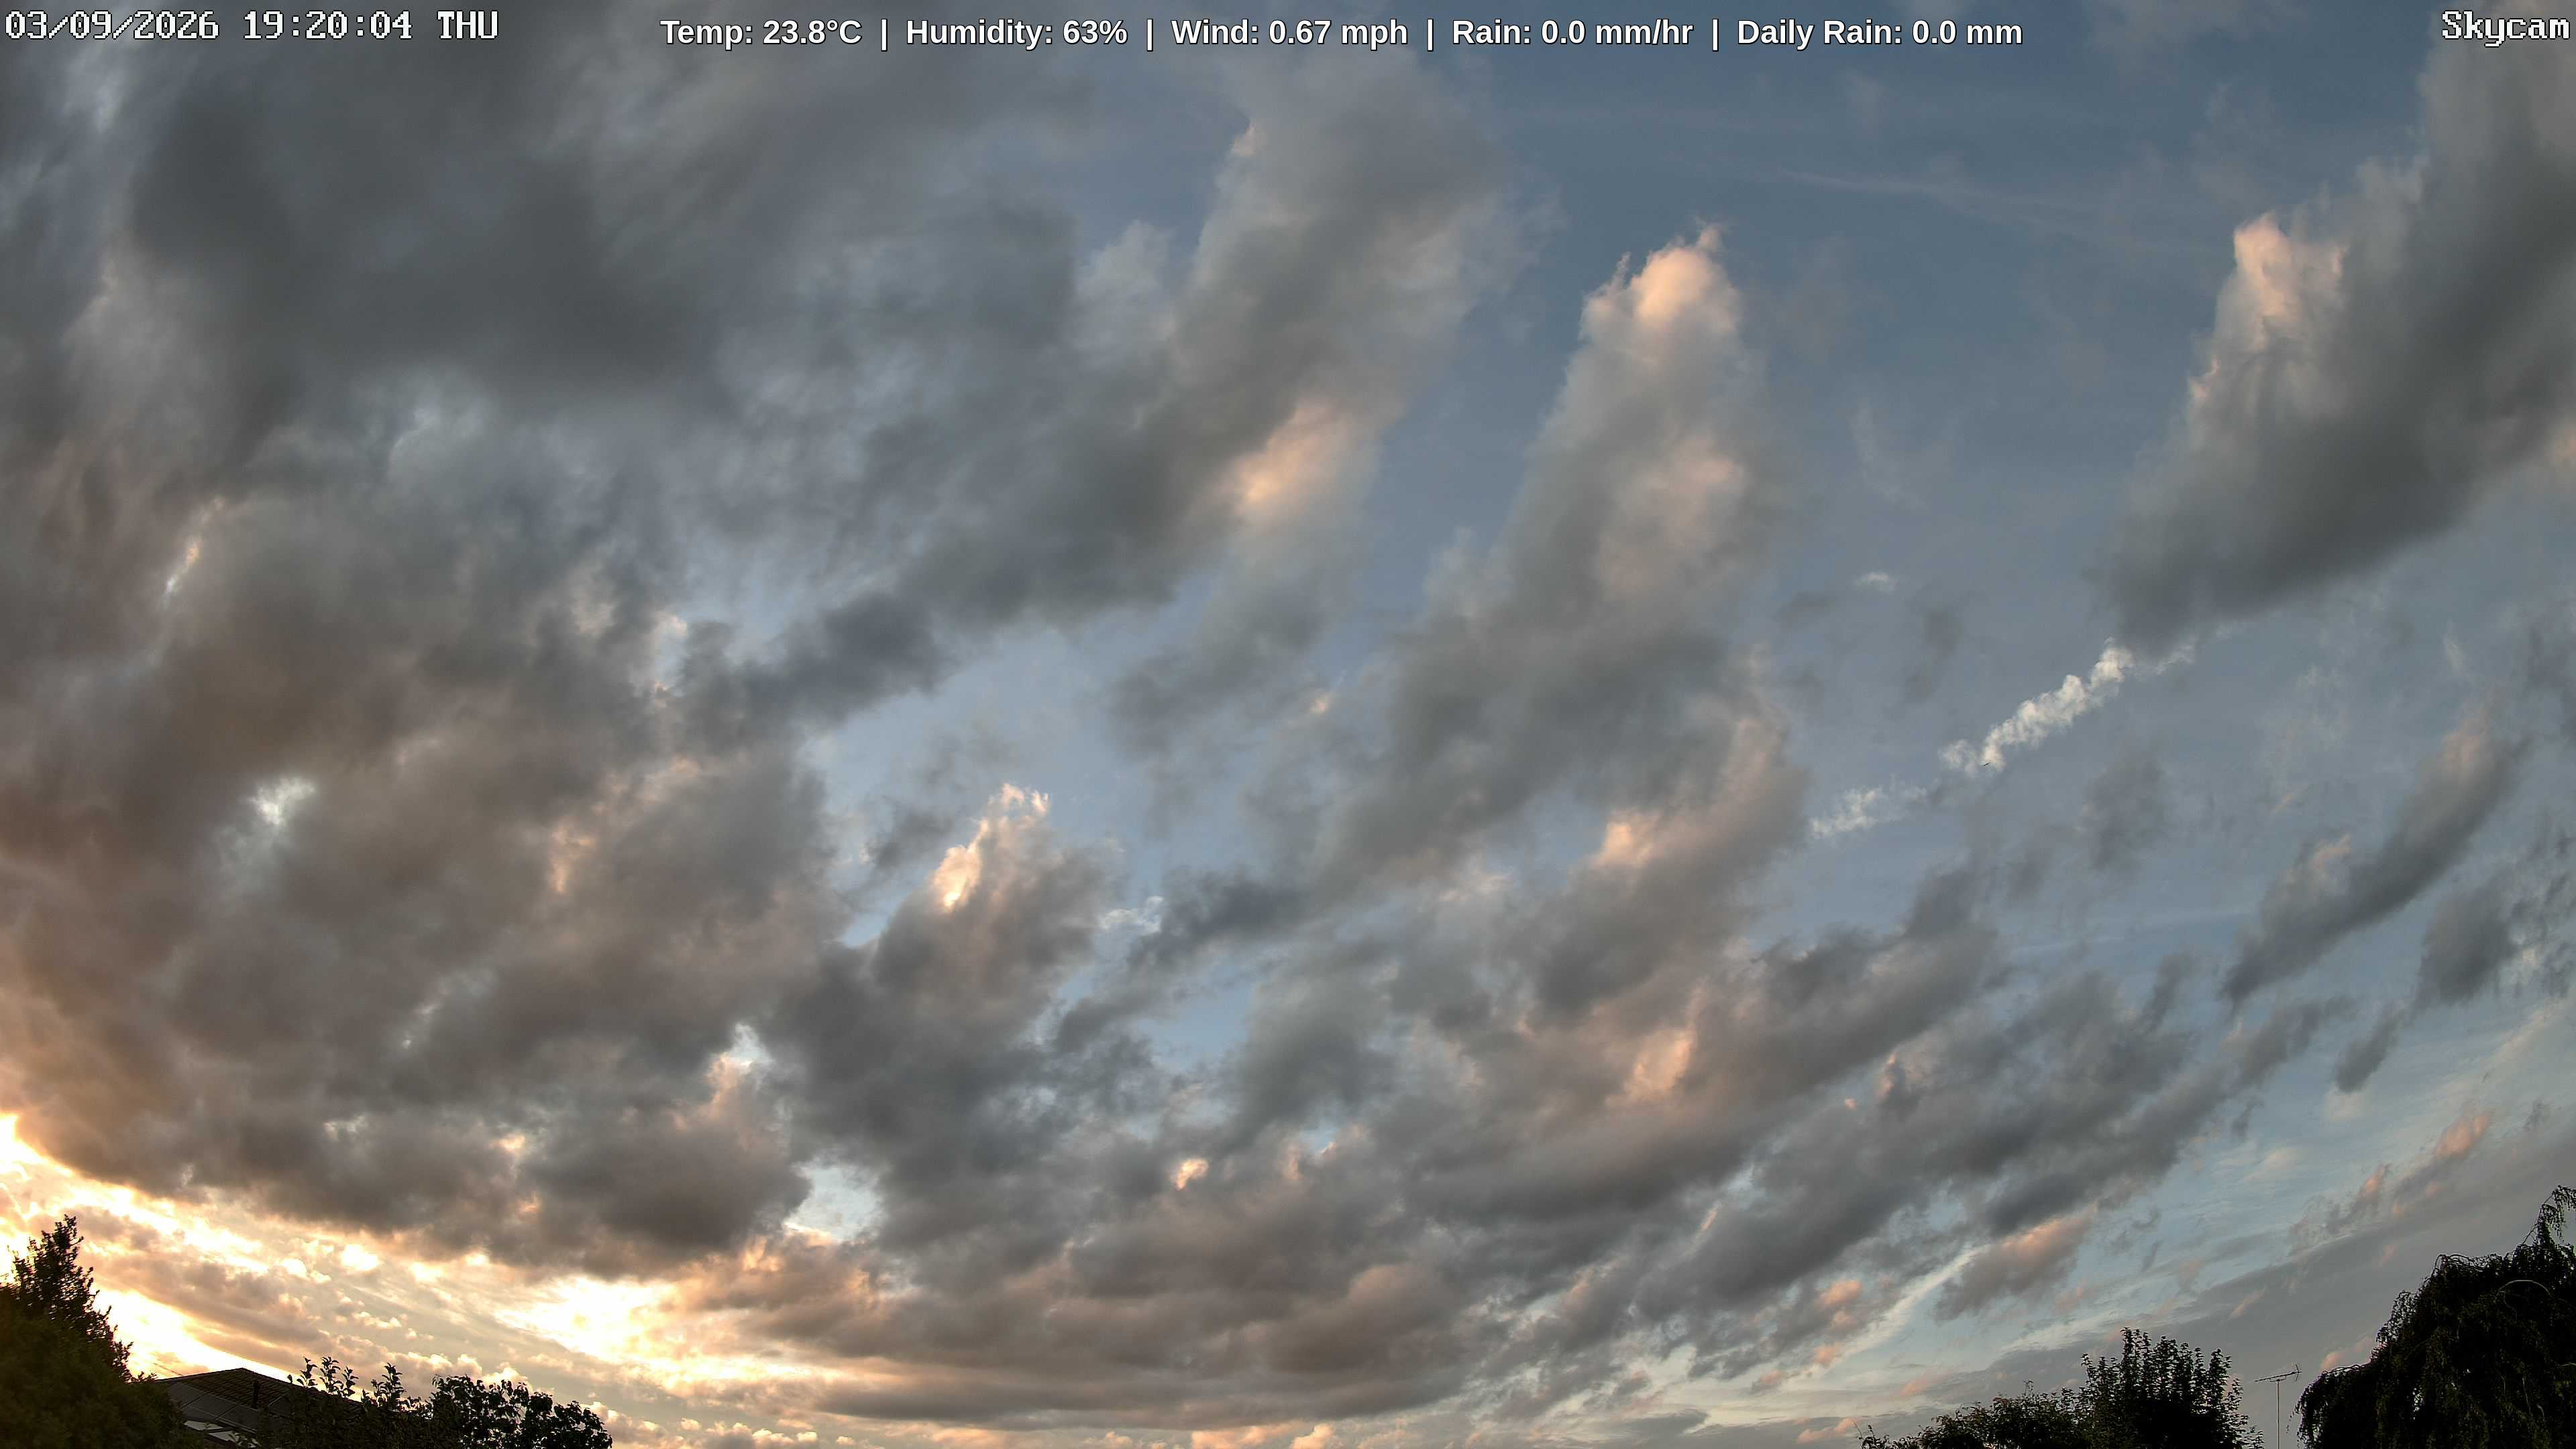
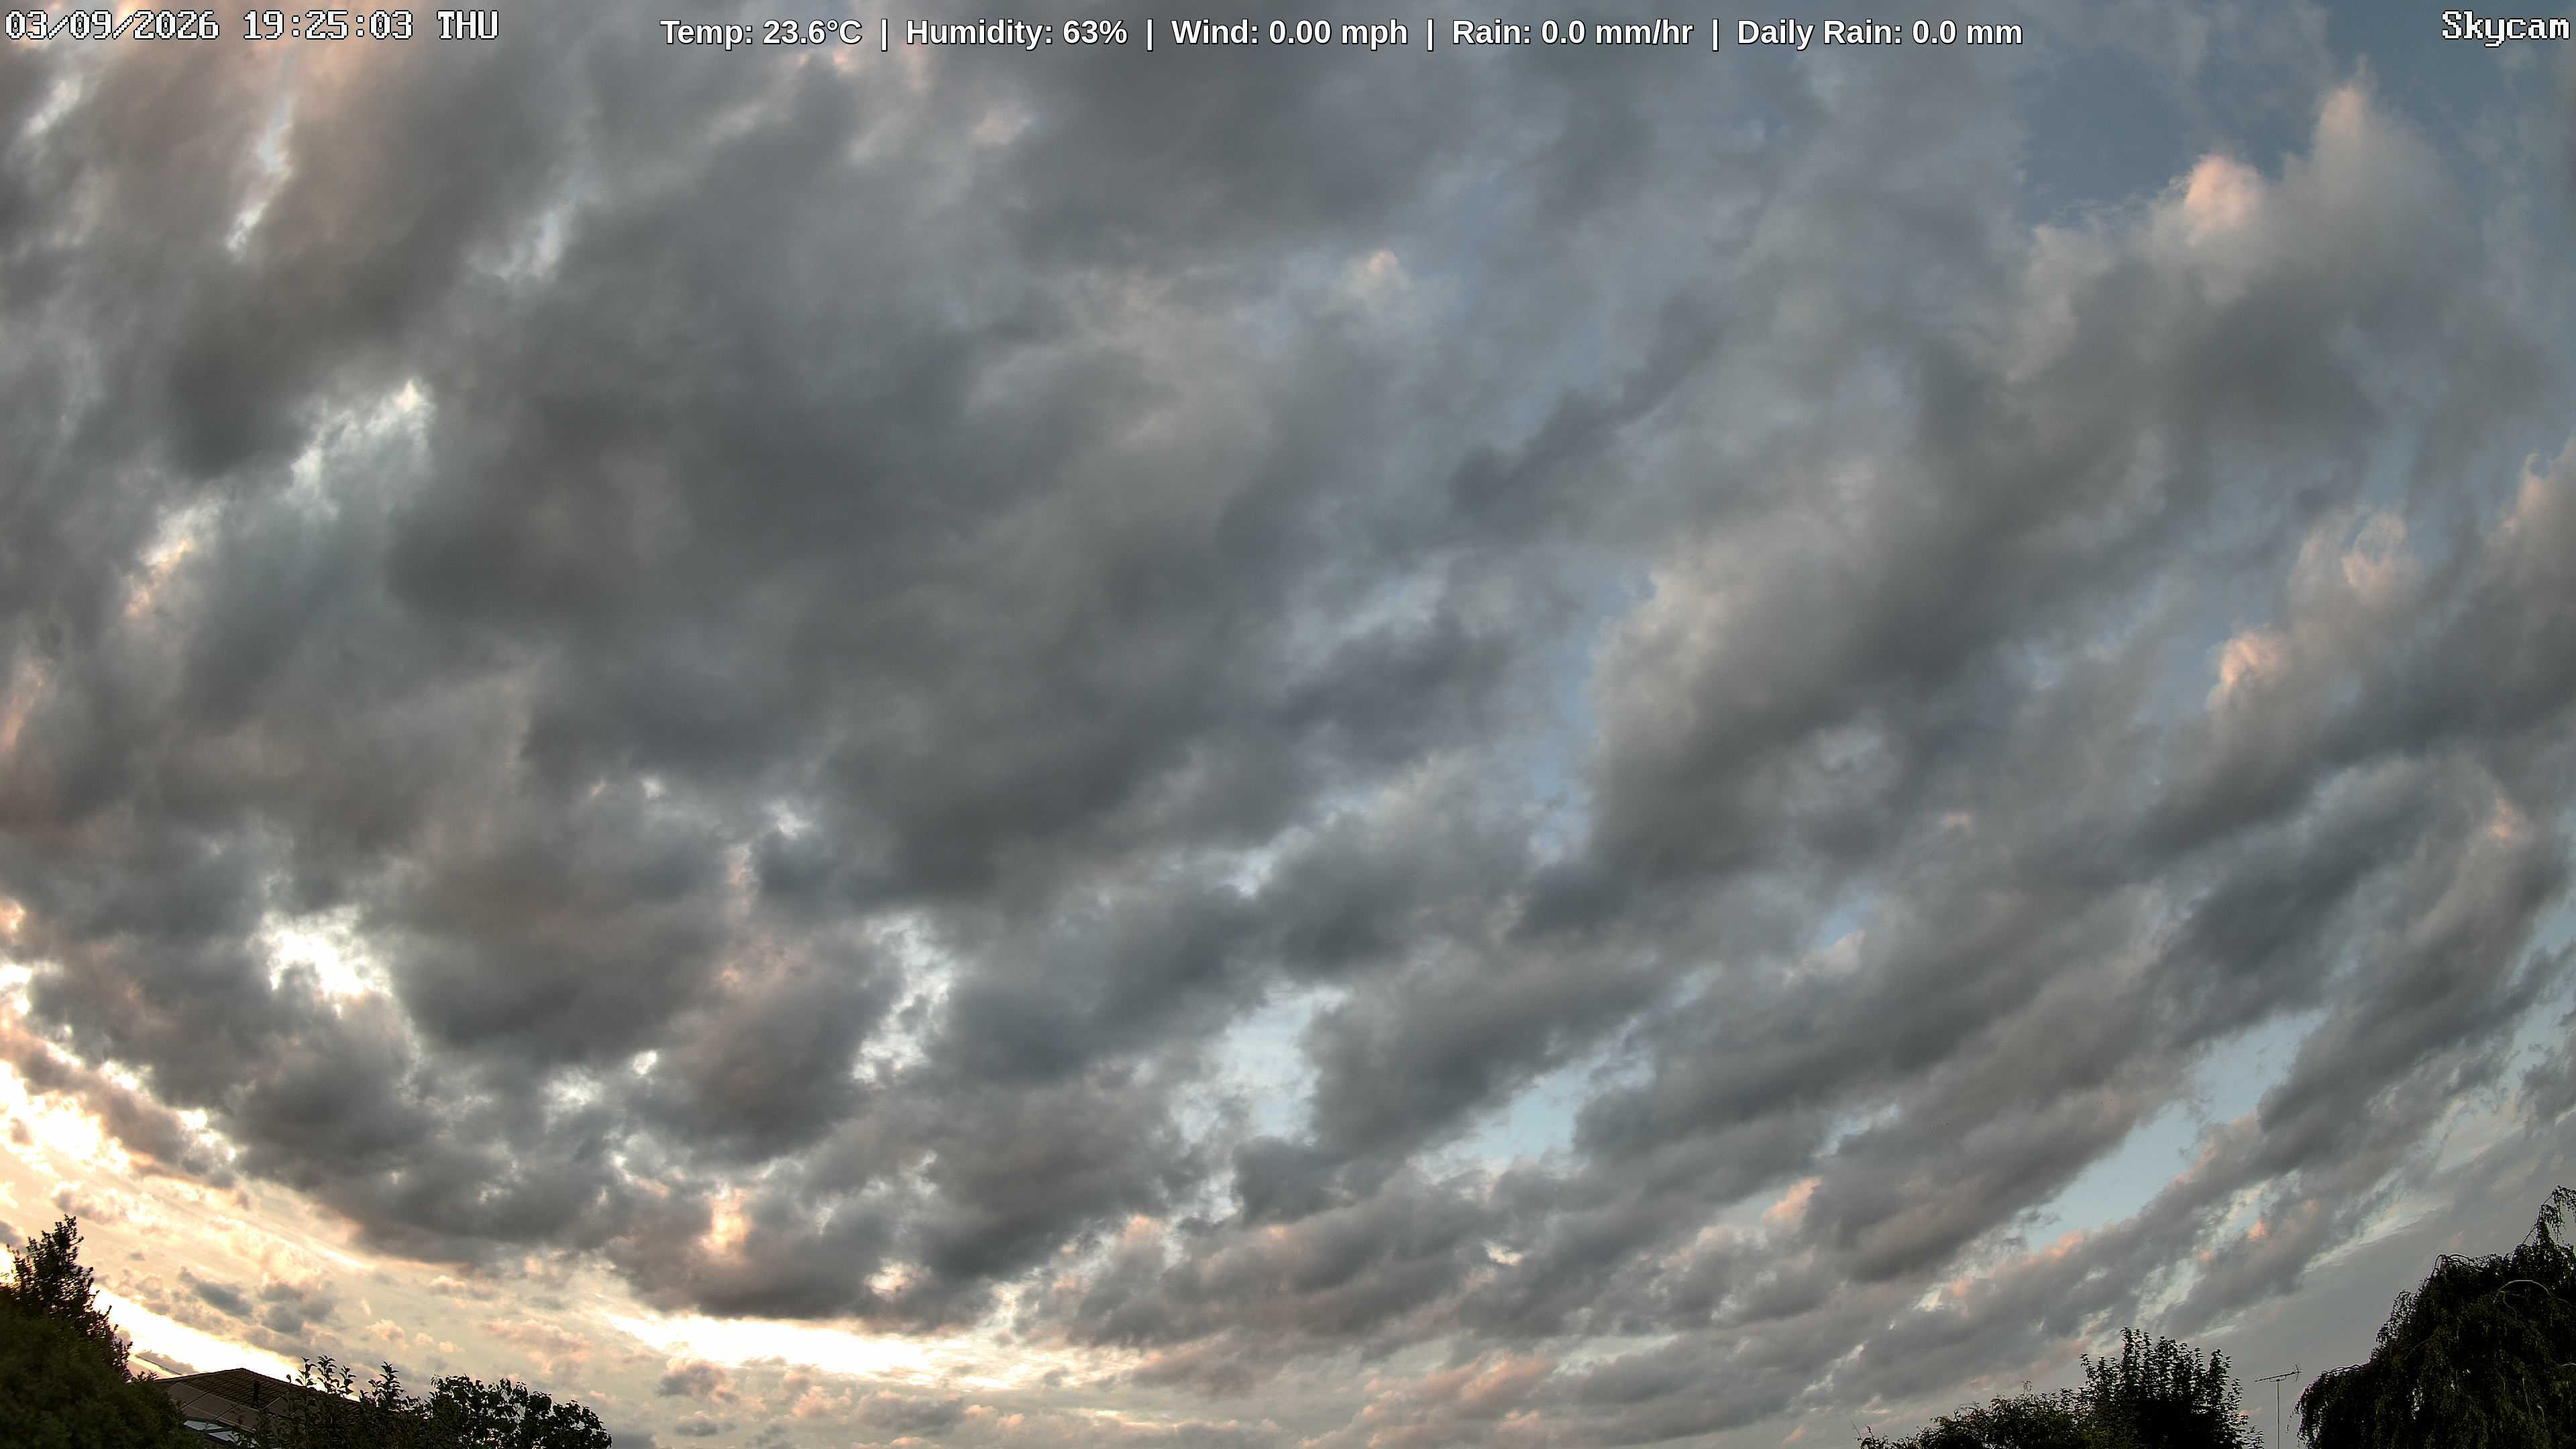
Update weather cam image with synchronized dual-layer weather metrics

diff --git a/index.html b/index.html
@@ -32,7 +32,7 @@
 </head>
 <body>
     <img id="weathercam" alt="Live Weather Snapshot">
-    <div class="banner">Temp: 23.8°C  |  Humidity: 63%  |  Wind: 0.67 mph  |  Rain: 0.0 mm/hr  |  Daily Rain: 0.0 mm</div>
+    <div class="banner">Temp: 23.6°C  |  Humidity: 63%  |  Wind: 0.00 mph  |  Rain: 0.0 mm/hr  |  Daily Rain: 0.0 mm</div>
 
     <script>
         // Shatter mobile cache engines by appending a live unique runtime timestamp 
